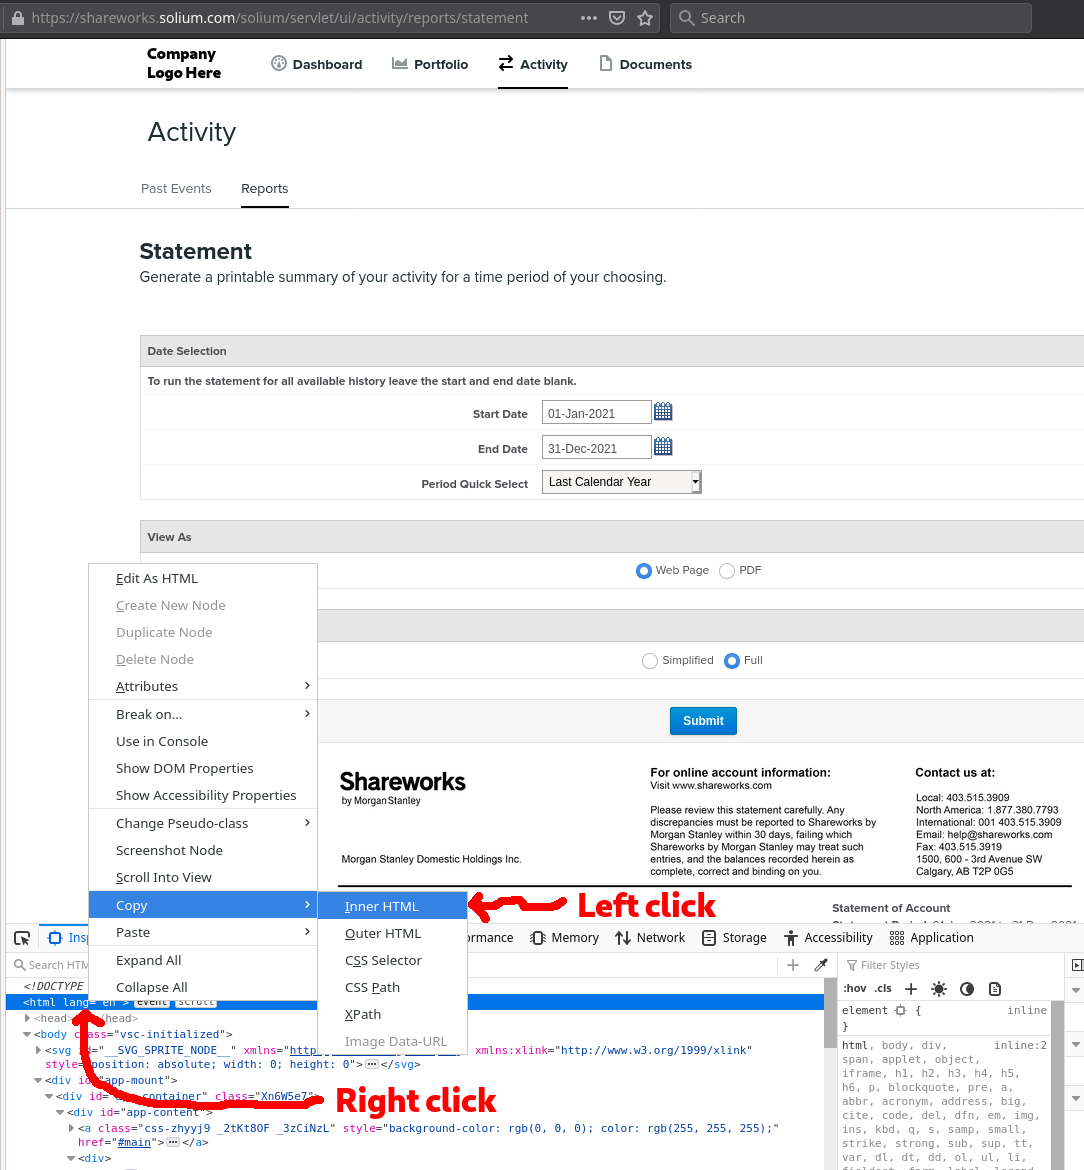
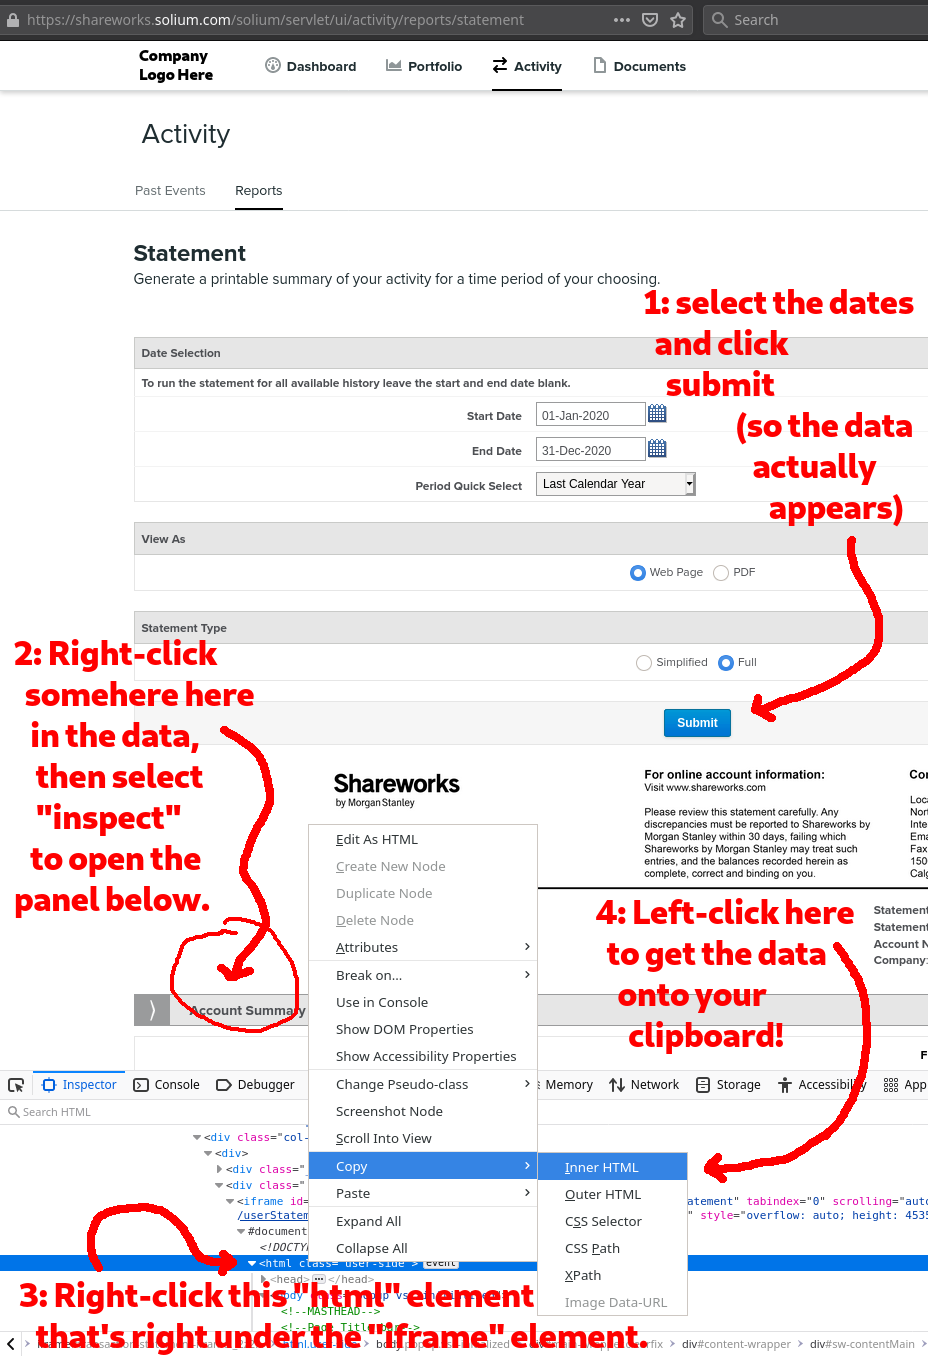
Instructions for the full madness of how to extract the right part of the website.
Why the _hell_ they don't just give you a page that's *actually* ready to print, in a new page -- which would, coincidentally, be really easy to save -- is utterly beyond my understanding or imagining.  This should not have been this hard.

Changed region(s): [[0.0, 0.0, 1.0, 1.0], [0.9688, 0.0, 1.0, 0.0308], [0.0, 0.1538, 0.0312, 0.1846]]

diff --git a/README.md b/README.md
@@ -58,30 +58,24 @@ If you'd like to make this more automated and easier to use, "PRs welcome", as w
 
 #### Getting the raw data
 
-1. Log in to Shareworks and get the html file.
-	- Log in to Shareworks.
+1. Log in to Shareworks.
+2. Get the report onto your screen.
 	- Click "Activity" at the top.
 	- Click "Reports".
 	- Do the date selection to whatever you want.
 	- Leave the other options as "Web Page" and "Full".
 	- Submit.
-	- *Save the page*.
-		- ~`Ctrl-S` usually does this; your browser may vary.~
-		- ~We only need the html file.  (So if the save dialog window says "web page complete" or something, and you can change that to "html only", go for it.)~
-		- ~You can name it whatever you want.~
-		- HANG ON.  IT GETS MORE DERANGED
-	- You can't actually save the page.  Somehow this just gives you some html relating to login and a bunch of javascript.  Okay.  Buckle up.  We're going to have to grab the html out of the object inspector.  We're in web debug town now!
-2. Get the actual html content.
-	- (I'm splitting this into a separate step because this is getting more involved than it should be.)
-	- Right-click anywhere on the page, and open "inspect".
-	- Some crazy debugger thing just opened.  If you don't know what this is, don't worry, just hang on.
-	- Scroll up to the top of that thing.  You should see a bit that says `<html` somewhere.  Right click on that.
-	- Hover "Copy" in the right-click menu, then click "Inner HTML" -- or "Copy element" in Chrome.  (Whatever.)  You should now have a big hunk of juicy data on your clipboard.
+3. Now it gets fun.  We need the HTML from this, but we can't just save the page.
+	- (Why can't we just save the page?  Because this website... it's incredible, in a bad way.  I don't wanna talk about it.  This is not how this website should've been written.)
+	- Right-click somewhere in the report data, and then click "inspect".
+		- Some crazy debugger thing just opened.  If you don't know what this is, don't worry, just hang on.
+	- Scroll up until you see something that says `<iframe id="transaction-statement-iframe` (... and then some more stuff you can ignore; it just has to start like this).
+	- Scroll *slightly* back down: You should see a bit that says `<html` right underneath the `<iframe`.  Right click on that.
+	- Hover "Copy" in the right-click menu, then click "Inner HTML" -- or "Copy element" in Chrome.  (Whatever.)  You should now have a big hunk of juicy data on your clipboard!  We're almost there!
 	- Dizzy?  See the screenshot below.
-	- FIXME: FIXME: FIXME: just kidding, this doesn't actually work either -- there's an iframe in the way.  You have to find that, as a human, and get the content of _that_.  Why must this be so complicated??  Who wrote this website like this and why???
-3. Paste that stuff into a file.  Call it `wow.html` or whatever you want.
+4. Paste that data from your clipboard into a file and save it.  Call it `wow.html` or whatever you want.
 	- If you're not very tech savvy -- mind that this needs to be a "plain text" file.  Not a word document or whatever.  If that's not familar to you, I'm sorry; this is beyond my depth to explain in this readme.
-4. HOORAY -- you are done with the browser now.  You can close it.
+5. HOORAY -- you are done with the browser now.  You can close it.
 
 Here's a screenshot of what getting the raw HTML looks like:
 
@@ -95,7 +89,7 @@ Okay.  Phew.  Now on to actually running the munger.
 	- If you're not the kind of tech savvy for this -- I'm sorry; this is beyond my depth to explain in this readme.
 2. You should have Golang installed.  Sanitycheck: you can run `go env` in the terminal, and it works, right?
 	- If you're not the kind of tech savvy for this -- I'm sorry; this is beyond my depth to explain in this readme.
-3. `go run ./main.go ./wow.html` -- or use whatever your filename was from step 3 above, when you got the data.
+3. `go run ./main.go ./wow.html` -- or use whatever your filename was from step 4 above, when you got the data.
 4. That's it!  The CSV data should've appeared on your terminal!
 5. Redirect it to a file to save it: `go run ./main.go ./wow.html > sane.csv`
 
